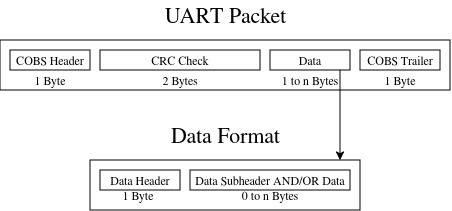
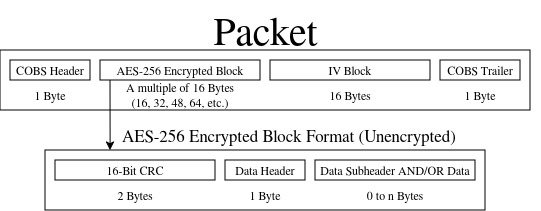
Update Documentation

Changed region(s): [[0.0, 0.0284, 1.0, 1.0]]

diff --git a/docs/Protocol.md b/docs/Protocol.md
@@ -10,7 +10,7 @@ The following protocol outlines the process MeT IOT devices take when starting a
 
 0. Zeroconf packet sent out for device discovery.
 1. Library connects to devices TCP socket.
-2. Library initiates ECDH handshake (*see `ECDH Handshake` for more details).
+2. Library initiates ECDH handshake (*see `ECDH Handshake` for more details*).
 3. Library sends a identification request command.
 4. Device responds with its device type and unique identifier.
 5. Regular use begins.
@@ -21,7 +21,7 @@ The following protocol outlines the process MeT IOT devices take when starting a
 
 ## Encryption
 
-**TODO**
+This protocol uses AES-256-CBC. Each message but be encrypted with a new unique 16 byte IV that is transported with the message (*see `Protocol Format`*)
 
 ## CRC
 
@@ -33,19 +33,20 @@ G.D. Nguyen, “Fast CRCs,” IEEE Transactions on Computers, vol. 58, no. 10, p
 
 ![Packet Diagram](images/Packet.jpg)
 
+### Packet Format
+
 | Field | Description | Bytes |
 |-|-|-|
 | COBS Header | Used to identify the start of a packet. Stores information on how data after it is to be decoded | 1 |
-| CRC | 16 bit Cyclic Redundancy Check. Used for error detection in the data | 2 |
-| Data | See `Data Format` below | 1-n |
+| Encrypted Data | Data encrypted with AES-256. See `Encrypted Block Format` below. | A multiple of 16 bytes (16, 32, 48, 64, etc.) |
+| IV | The IV used during encryption. Ensures each encrypted message is unique even if data is identical. | 16 |
 | COBS Trailer | Used to identify the end of a packet. This is always 0x00 | 1 | 
 
-## Data Field Format
+### Encrypted Block Format
 
-| Field | Description | Bytes |
-|-|-|-|
-| Header | Identifies packet purpose | 1 |
-| Data | Payload as defined below (dependent on direction) | 0-n |
+| CRC | 16 bit Cyclic Redundancy Check. Used for error detection in the data | 2 |
+| Data Header | Identifies packet purpose | 1 |
+| Data | Payload as defined below (dependent on direction & Data Header) | 0-n |
 
 ### ESP32 to Library Protocol
 
@@ -53,7 +54,7 @@ G.D. Nguyen, “Fast CRCs,” IEEE Transactions on Computers, vol. 58, no. 10, p
 |-|-|-|-|
 | Malformed Packet Notification | 0xFF | | 1 |
 | Device Identifier | 0xFE | 1 byte device identifier (*see `Device Identification Codes`*) followed by 4 byte unique device identifier | 5 |
-| Data | 0xFD | Refer to `Device Data Field` | 9000 |
+| Data | 0xFD | Refer to `Device Data Field` |  |
 
 ### Library to ESP32 Protocol
 
